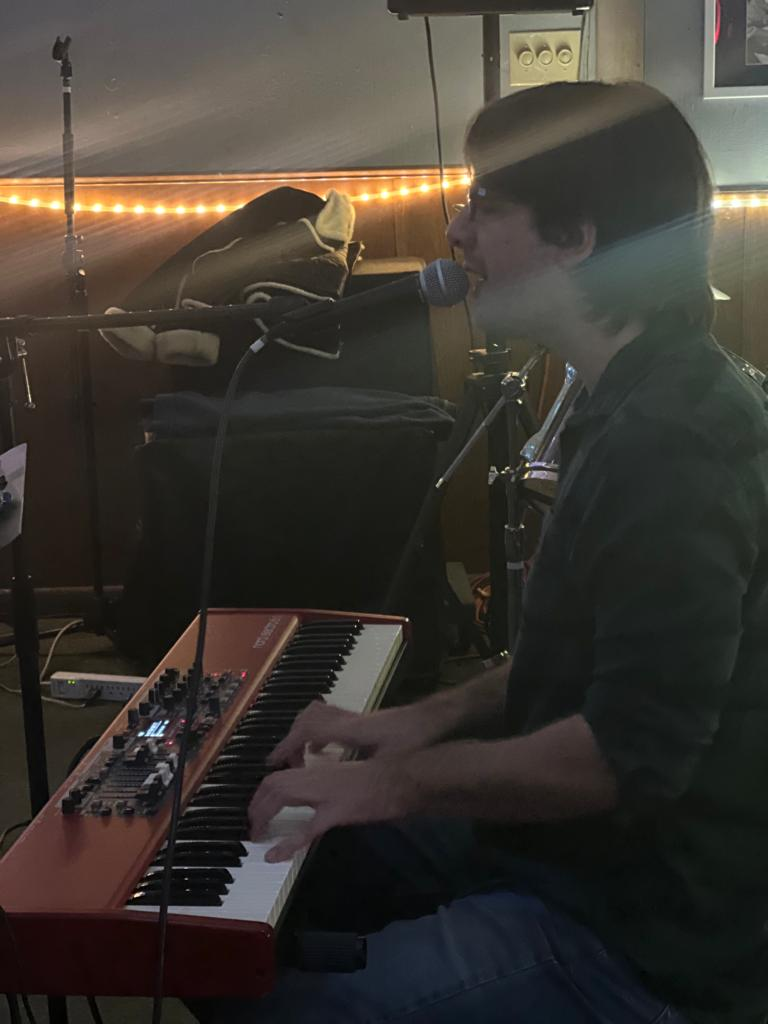
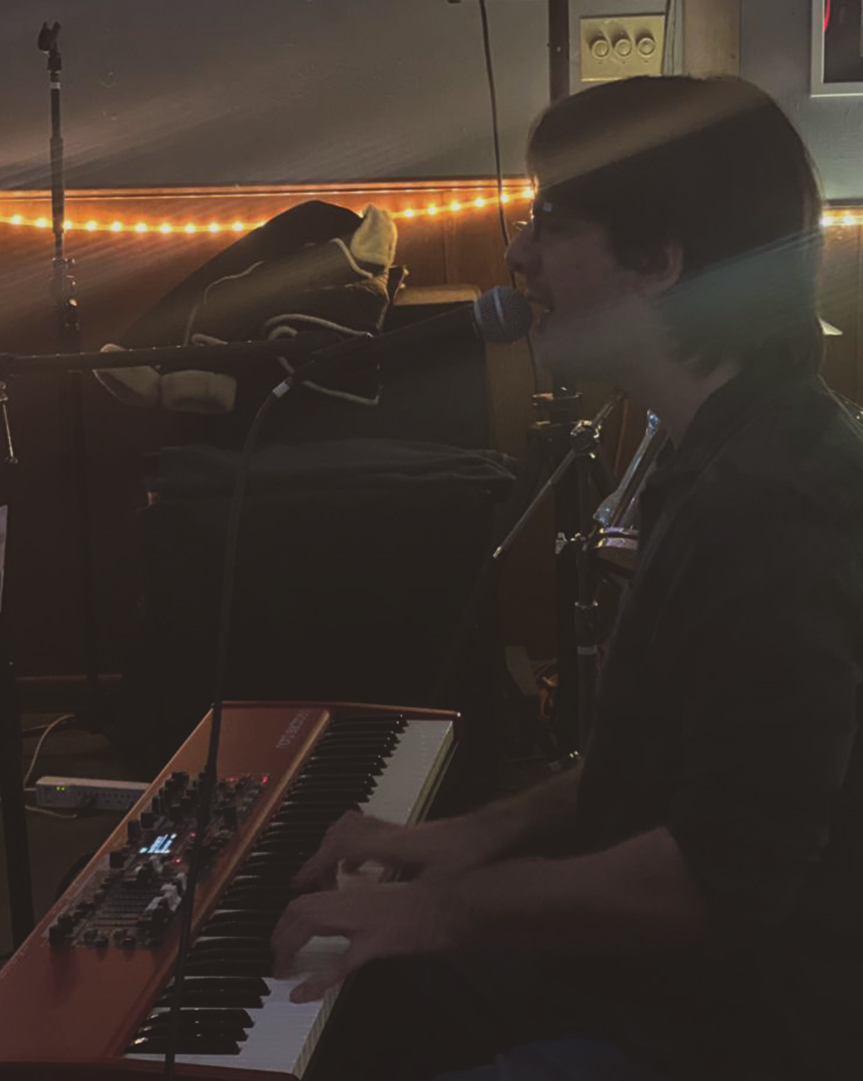
.

diff --git a/src/components/home/Home.tsx b/src/components/home/Home.tsx
@@ -14,7 +14,7 @@ import news from '../../assets/me-news.png';
 import logo from '../../assets/me.jpg'; // Tell webpack this JS file uses this image
 import logo10 from '../../assets/me10.jpg'; // Tell webpack this JS file uses this image
 import logo11 from '../../assets/me11.jpg'; // Tell webpack this JS file uses this image
-import logo12 from '../../assets/me12.jpg'; // Tell webpack this JS file uses this image
+import logo13 from '../../assets/me13.jpg'; // Tell webpack this JS file uses this image
 import logo2 from '../../assets/me2.jpg'; // Tell webpack this JS file uses this image
 import logo3 from '../../assets/me3.jpg'; // Tell webpack this JS file uses this image
 import logo4 from '../../assets/me4.jpg'; // Tell webpack this JS file uses this image
@@ -66,8 +66,8 @@ const images = [
     thumbnail: logo10,
   },
   {
-    original: logo11,
-    thumbnail: logo11,
+    original: logo13,
+    thumbnail: logo13,
   },
 ];
 
